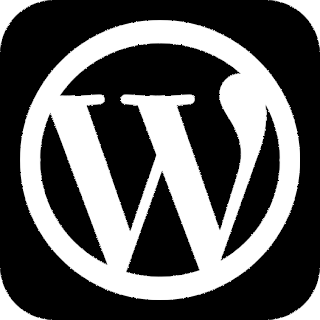
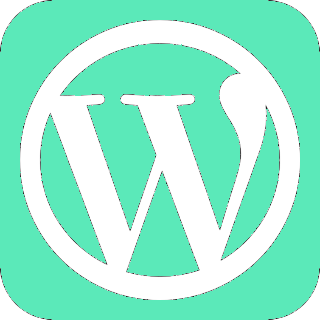
Update: social hover to accent color

diff --git a/components/Socials.js b/components/Socials.js
@@ -28,42 +28,42 @@ const Socials = () => {
       <div className={styles.social}>
         <Tooltip title="GitHub" arrow>
           <a id={1} onMouseEnter={() => setId(1)} onMouseLeave={() => setId(0)} href="https://github.com/bhattibytes" target="_blank" rel="noopener noreferrer">
-            <Image src={ id == 1 ? gitBlack : github } alt="github" height={30} width={30} style={{ borderRadius: "3px" }}/>
+            <Image src={ id == 1 ? gitBlack : github } alt="github" height={30} width={30} className={styles.socialImg}/>
           </a>
         </Tooltip>
         <Tooltip title="LinkedIn" arrow>
           <a id={2} onMouseEnter={() => setId(2)} onMouseLeave={() => setId(0)} href="https://www.linkedin.com/in/jasonbhatti/" target="_blank" rel="noopener noreferrer">
-            <Image src={ id == 2 ? linkedBlack : linkedin } alt="linkedin" height={30} width={30} style={{ borderRadius: "3px" }}/>
+            <Image src={ id == 2 ? linkedBlack : linkedin } alt="linkedin" height={30} width={30} className={styles.socialImg}/>
           </a>
         </Tooltip>
         <Tooltip title="Facebook" arrow>
           <a id={3} onMouseEnter={() => setId(3)} onMouseLeave={() => setId(0)} href="https://www.facebook.com/Bhattibytes" target="_blank" rel="noopener noreferrer">
-            <Image src={ id == 3 ? facebookBlack : facebook } alt="facebook" height={30} width={30}/>
+            <Image src={ id == 3 ? facebookBlack : facebook } alt="facebook" height={30} width={30} className={styles.socialImg}/>
           </a>
         </Tooltip>
         <Tooltip title="Twitter" arrow>
           <a id={4} onMouseEnter={() => setId(4)} onMouseLeave={() => setId(0)} href="https://twitter.com/BhattiBytes" target="_blank" rel="noopener noreferrer">
-            <Image src={ id == 4 ? twitterBlack : twitter } alt="twitter" height={30} width={30}/>
+            <Image src={ id == 4 ? twitterBlack : twitter } alt="twitter" height={30} width={30} className={styles.socialImg}/>
           </a>
         </Tooltip>
         <Tooltip title="Instagram" arrow>
           <a id={5} onMouseEnter={() => setId(5)} onMouseLeave={() => setId(0)} href="https://www.instagram.com/bhattibytes/" target="_blank" rel="noopener noreferrer">
-            <Image src={ id == 5 ? instagramBlack : instagram } alt="instagram" height={30} width={30}/>
+            <Image src={ id == 5 ? instagramBlack : instagram } alt="instagram" height={30} width={30} className={styles.socialImg}/>
           </a>
         </Tooltip>
         <Tooltip title="Pinterest" arrow>
           <a id={6} onMouseEnter={() => setId(6)} onMouseLeave={() => setId(0)} href="https://www.pinterest.com/bhattibytes/_saved/" target="_blank" rel="noopener noreferrer">
-            <Image src={ id == 6 ? pintrestBlack : pintrest } alt="pintrest" height={30} width={30}/>
+            <Image src={ id == 6 ? pintrestBlack : pintrest } alt="pintrest" height={30} width={30} className={styles.socialImg}/>
           </a>
         </Tooltip>
         <Tooltip title="WordPress" arrow>
           <a id={7} onMouseEnter={() => setId(7)} onMouseLeave={() => setId(0)} href="https://bhattibytes.wordpress.com/" target="_blank" rel="noopener noreferrer">
-            <Image src={ id == 7 ? wordpressBlack : wordpress } alt="wordpress" height={30} width={30}/>
+            <Image src={ id == 7 ? wordpressBlack : wordpress } alt="wordpress" height={30} width={30} className={styles.socialImg}/>
           </a>
         </Tooltip>
         <Tooltip title="Email" arrow>
           <a id={8} onMouseEnter={() => setId(8)} onMouseLeave={() => setId(0)} href="mailto:bhattibytes@gmail.com" target="_blank" rel="noopener noreferrer">
-            <Image src={ id == 8 ? mailBlack : mail } alt="email" height={32} width={30}/>
+            <Image src={ id == 8 ? mailBlack : mail } alt="email" height={32} width={30} className={styles.socialImg}/>
           </a>
         </Tooltip>
       </div>

diff --git a/styles/Home.module.css b/styles/Home.module.css
@@ -436,6 +436,10 @@
   width: 20%;
 }
 
+.socialImg {
+  border-radius: 5px;
+}
+
 .socialContainer {
   display: flex;
   flex-direction: row;
